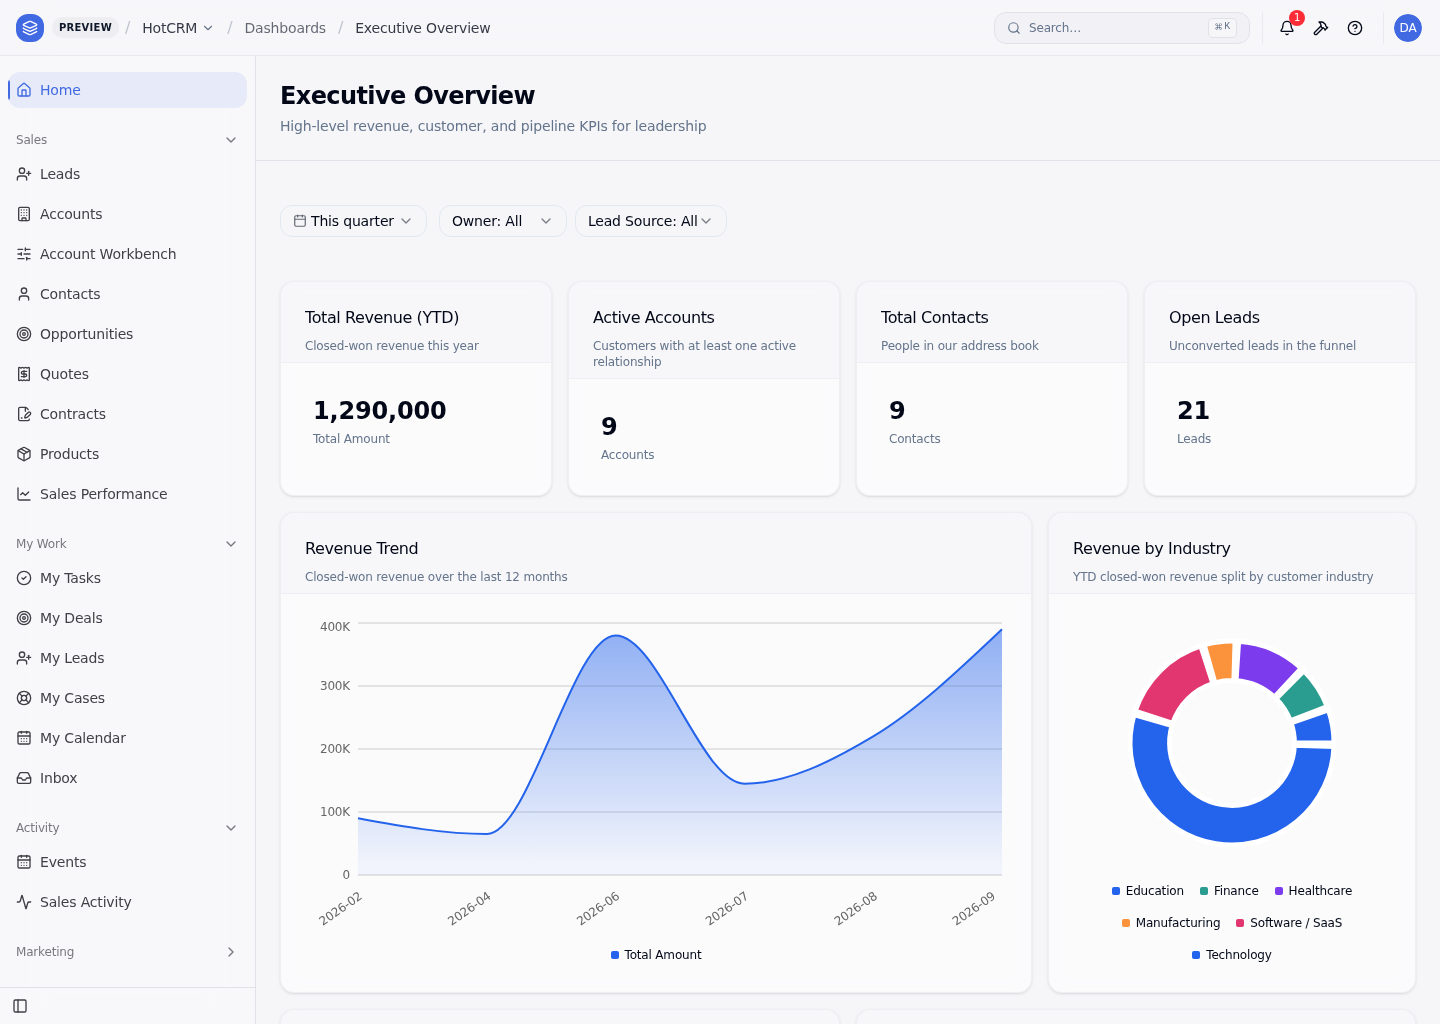
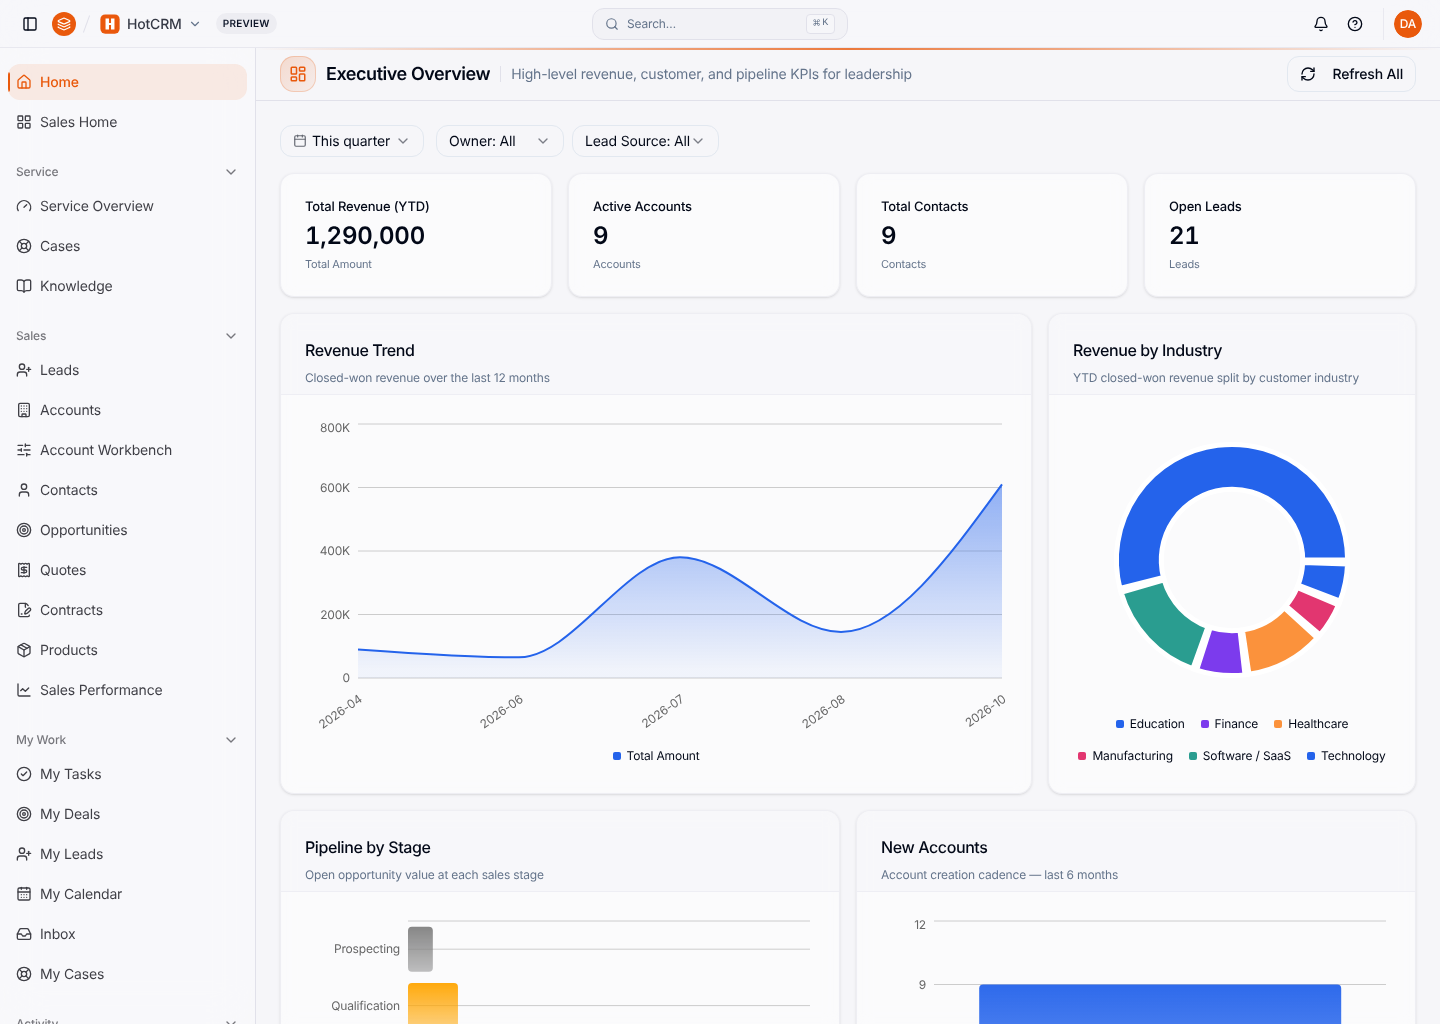
docs(readme): position HotCRM as the reference implementation of "the ontology is the software", and refresh its screenshots on 18.0.0
The README opens on the platform's positioning, quoted, and says what HotCRM
is under it, with every figure re-measured on the 18.0.0 tree: counts off the
registered stack, the token figures off the ratchet's headline line, and a new
section showing an MCP create_record that the dev admin's key completes and a
read-only identity's key is refused.

The nine documentation screenshots are re-captured in en and zh-Hans from a
fresh database with the shipped seed and demo staff, light theme; each
meta.yaml records the capture date and platform version, and the two comment
blocks whose measurements moved on 18.0.0 are restated. The five numbered
screenshots nothing read are removed.

Claude-Session: https://claude.ai/code/session_01KqkTQNLcxVc588eZpJmp1r

diff --git a/test/docs-readme-token-figures.test.ts b/test/docs-readme-token-figures.test.ts
@@ -10,12 +10,15 @@ import { REPO_ROOT } from './helpers/repo-root';
 /**
  * The README headline figures are the gate's, within the ruled buffer (#1187).
  *
- * The README banner states HotCRM's positioning claim as two measured numbers:
- * business semantics ~50k tokens, interaction layer ~29k — of the SALES
- * package, which is the surface #1905 put the gate on
- * (「token 门禁： 放到 sales」) and the unit ADR-0130 §1.3(b) makes the claim
- * about: *a CRM sales module fits whole in an AI context window*. That claim is the
- * first thing a reader sees and the reason a developer keeps reading, and for
+ * The README banner states HotCRM's size claim as two measured numbers, the
+ * business semantics and the interaction layer — of the SALES package, which is
+ * the surface #1905 put the gate on (「token 门禁： 放到 sales」) and the unit
+ * ADR-0130 §1.3(b) makes the claim about: *a CRM sales module fits whole in an AI
+ * context window*. Since #2205 the README opens on the platform's positioning
+ * ("the ontology is the software", quoted) and the size claim sits under it in a
+ * `> [!NOTE]` callout: a blockquote on purpose, because `bannerText` below reads
+ * every `>` line of the README and nothing else. It is still the claim a
+ * developer reads first and the reason one keeps reading, and for
  * months nothing checked it — the banner said "~170k tokens (~18,000 lines)", a
  * hand measurement of a tree that had since moved, and no test, gate or reviewer
  * could have noticed. #1183 built the measurement
@@ -61,8 +64,8 @@ import { REPO_ROOT } from './helpers/repo-root';
  * a size the app does not have — the ratchet owns the growth budget, alone, and
  * a raise there sits on the maintainer floor where it always did.
  *
- *   business semantics  banner ~57k -> band 54,150–59,850 · ceiling 88,500
- *   interaction layer   banner ~28k -> band 26,600–29,400 · ceiling 46,500
+ *   business semantics  banner ~58k -> band 55,100–60,900 · ceiling 88,500
+ *   interaction layer   banner ~29k -> band 27,550–30,450 · ceiling 46,500
  *
  * ⚠ The ceiling column is still worked out per row, and still pinned to
  * `CEILINGS` below — that is what stops the README quoting a ceiling the gate no

diff --git a/README.md b/README.md
@@ -4,72 +4,92 @@
 
 # HotCRM
 
-> **The reference app for AI-written enterprise software.** A complete CRM —
-> 18 objects, 33 flows, 5 dashboards, 6 AI skills, 4 languages — built as four
-> packages (sales, service, revenue, marketing) that compile to one artifact.
-> The **sales package**, the one a customer installs, carries its whole
-> business semantics (objects, flows, actions, hooks) in **~57k tokens**
-> of typed [ObjectStack](https://github.com/objectstack-ai/objectstack) metadata,
-> and its whole interaction layer (views, pages, dashboards, app shell) in
-> another **~28k**. An agent holds every business rule of a real enterprise CRM
-> module in a fraction of one context window — and the entire authored app
-> still fits comfortably — so it can reason about the system whole and refactor
-> it safely.
-> **Install it online in one click, or fork it and build & ask with Claude
-> Code** — it's the reference implementation every marketplace app forks from.
+> **The ontology is the software.** One executable business ontology. AI writes it, the runtime runs it, agents operate it, you own it.
 >
-> <sub>Measured, not estimated: `node scripts/check-source-token-ratchet.mjs`
-> prints both figures and CI fails when either grows past its committed ceiling.
-> Every package carries its own three ceilings — business semantics, interaction
-> layer and authored total — so a module cannot spend headroom another one is not
-> using. Comments and blank lines are stripped; translations
-> and seed data are outside the count — a fifth locale is not business
-> logic.</sub>
+> 本体即软件。
+>
+> Ontology-driven: database, API, UI and agent tools all derive from that one definition of the business, so there is no second application to keep in step with it.
+
+<sub>The positioning of [ObjectStack](https://github.com/objectstack-ai/objectstack), quoted from its README. The long form is the post [The Ontology Is the Software](https://objectstack.ai/blog/the-ontology-is-the-software).</sub>
+
+**HotCRM is the reference implementation of that statement for a CRM.**
+
+- **Its business ontology is the app.** 18 business objects and the relations between them, **32 actions**, 33 flows, 7 permission sets, 12 positions and 11 sharing rules, and 6 AI skills — typed [ObjectStack](https://github.com/objectstack-ai/objectstack) metadata under `src/`, checked by `pnpm validate`.
+- **The database, the API, the console UI and the agent tools derive from it.** One `pnpm dev` boot creates the tables, serves the REST API at `/api/v1/data/crm_account` and its siblings, the Console at `/_console/`, and an MCP server at `/api/v1/mcp`. Nothing under `src/` defines a route handler or a React component.
+- **Views, dashboards and translations are projections of it.** List views, record pages, 5 dashboards and the app's navigation, in 4 languages (en, zh-CN, es-ES, ja-JP): the surfaces people use the ontology through, not a second copy of it.
+
+> [!NOTE]
+> **Small enough for an agent to hold whole.** The sales package carries its whole business semantics (objects, flows, actions, hooks) in **~58k tokens**, and its whole interaction layer (views, pages, dashboards, app shell) in another **~29k**.
+> Measured, not estimated: `node scripts/check-source-token-ratchet.mjs` prints both figures, and every other package's, and CI fails when a package's business semantics, interaction layer or authored total grows past its committed ceiling. Comments and blank lines are stripped; translations and seed data are outside the count — a fifth locale is not business logic.
 
 [![License](https://img.shields.io/badge/license-Apache--2.0-blue.svg)](LICENSE)
 [![Manifest](https://img.shields.io/badge/manifest-app.objectstack.hotcrm-blueviolet)](src/sales/index.ts)
 [![Version](https://img.shields.io/badge/version-5.1.2-brightgreen)](CHANGELOG.md)
 [![Marketplace](https://img.shields.io/badge/marketplace-cloud.objectos.app-orange)](https://cloud.objectos.app)
 
-HotCRM is a complete, opinionated CRM built as the **first official application** on the [ObjectStack](https://cloud.objectos.app) marketplace. Install it into any ObjectStack environment in one click and get a working CRM in 30 seconds — or fork it as the canonical example of how to build your own marketplace app.
+Install it into an ObjectStack environment from the [marketplace](https://cloud.objectos.app), or fork it and build & ask with Claude Code or any coding agent: the agent writes the metadata in your repo, and operates the running app over MCP.
 
 ---
 
-## 📸 Screenshots
+## 📸 Projections of one ontology
 
-| Qualified lead workspace | Sales pipeline |
+Captured on ObjectStack 18.0.0 from a fresh database with the shipped seed data and demo staff (`pnpm demo:staff`), in the Console's default light theme.
+
+| Strategic account 360 | Qualified lead workspace |
 |---|---|
-| ![Qualified lead workspace](assets/screenshots/hotcrm/lead-detail/en.png) | ![Sales pipeline](assets/screenshots/hotcrm/sales-pipeline/en.png) |
+| ![Strategic account 360](assets/screenshots/hotcrm/customer-360/en.png) | ![Qualified lead workspace](assets/screenshots/hotcrm/lead-detail/en.png) |
 
-| Strategic account 360 | Quote lifecycle |
+| Sales pipeline kanban | Quote lifecycle pipeline |
 |---|---|
-| ![Strategic account 360](assets/screenshots/hotcrm/customer-360/en.png) | ![Quote lifecycle](assets/screenshots/hotcrm/quote-pipeline/en.png) |
+| ![Sales pipeline kanban](assets/screenshots/hotcrm/sales-pipeline/en.png) | ![Quote lifecycle pipeline](assets/screenshots/hotcrm/quote-pipeline/en.png) |
 
-| Campaign lifecycle and ROI | Sales performance dashboard |
+| Campaign lifecycle and ROI | Large-deal approval flow |
 |---|---|
-| ![Campaign lifecycle and ROI](assets/screenshots/hotcrm/campaign-detail/en.png) | ![Sales performance dashboard](assets/screenshots/hotcrm/sales-dashboard/en.jpg) |
+| ![Campaign lifecycle and ROI](assets/screenshots/hotcrm/campaign-detail/en.png) | ![Large-deal approval flow](assets/screenshots/hotcrm/large-deal-approval/en.png) |
 
-> The current, locale-specific screenshots live in `assets/screenshots/hotcrm/<screen>/<locale>.png`, with a colocated `meta.yaml` for purpose, alt text, capture context, and lifecycle. This README uses English; the documentation site also publishes `zh-Hans` variants. Bundled runtime translations: en, zh-CN, es-ES, ja-JP.
+The same dashboard, two projections: the English UI and the zh-CN language pack over the same records.
+
+| Sales performance dashboard (en) | 销售业绩仪表盘 (zh-Hans) |
+|---|---|
+| ![Sales performance dashboard](assets/screenshots/hotcrm/sales-dashboard/en.jpg) | ![销售业绩仪表盘](assets/screenshots/hotcrm/sales-dashboard/zh-Hans.jpg) |
+
+> The screenshots live in `assets/screenshots/hotcrm/<screen>/<locale>.png`, each with a colocated `meta.yaml` recording its purpose, alt text, capture context and platform version. This README uses English; the documentation site also publishes the `zh-Hans` variants.
+
+---
+
+## 🤖 Agents operate it
+
+The runtime serves HotCRM as an MCP server at `/api/v1/mcp`, on by default. `list_objects` returns every `crm_*` object, the runtime's record tools (`query_records`, `create_record`, …) act on them, and two of HotCRM's actions opt in with `ai: { exposed: true }`: **Convert Lead** and **Schedule Follow-up**. An agent calls them under the permission sets and sharing rules of the identity it connects as — the same ones a REST call from that identity runs under.
+
+Measured on a local community-edition boot (`pnpm dev`, then `pnpm demo:staff`). Sign in and mint an API key for an identity:
+
+```bash
+curl -c admin.txt -X POST http://localhost:4001/api/v1/auth/sign-in/email \
+  -H 'content-type: application/json' -d '{"email":"admin@objectos.ai","password":"admin123"}'
+curl -b admin.txt -X POST http://localhost:4001/api/v1/keys     # → { "data": { "key": "osk_…" } }, shown once
+```
+
+Then send an agent's `tools/call` with that key:
+
+```bash
+curl -X POST http://localhost:4001/api/v1/mcp \
+  -H 'content-type: application/json' -H 'accept: application/json, text/event-stream' \
+  -H 'x-api-key: osk_…' \
+  -d '{"jsonrpc":"2.0","id":1,"method":"tools/call","params":{"name":"create_record","arguments":{"objectName":"crm_campaign","data":{"name":"Agent-created Q1 Webinar","type":"webinar","status":"planning","start_date":"2027-01-12","end_date":"2027-01-14"}}}}'
+```
+
+| The key belongs to | What comes back |
+|---|---|
+| the dev admin, `admin@objectos.ai` | `isError: false` — the new campaign, `created_by` the dev admin |
+| the demo sales rep Nina Reyes, `na.rep@objectos.ai` — her `sales_rep` permission set reads every campaign and grants no create | `isError: true` — `PERMISSION_DENIED`, `status: 403`, and the campaign count does not move |
+
+HotCRM defines no agent of its own; its 6 AI skills are metadata for a platform agent to carry, and this community-edition boot runs none (`GET /api/v1/ai/agents` answers an empty list), so the agent is the one you connect. `pnpm dev` prints the `claude mcp add …` line for an MCP client; [Connect an MCP Client](https://objectstack.ai/docs/ai/connect-mcp) covers the browser sign-in and API keys.
 
 ---
 
 ## ✨ What you get
 
-**18 business objects** spanning the full Lead-to-Cash cycle:
-
-| Sales | Service | Marketing | Revenue |
-|---|---|---|---|
-| `crm_lead` | `crm_case` | `crm_campaign` | `crm_contract` |
-| `crm_account` | `crm_knowledge_article` | `crm_campaign_member` | `crm_quote` |
-| `crm_contact` | `crm_task` | | `crm_quote_line_item` |
-| `crm_opportunity` | | | |
-| `crm_opportunity_line_item` | | | |
-| `crm_product` | | | |
-| `crm_forecast` | | | |
-| `crm_event` | | | |
-| `crm_event_attendee` | | | |
-
-Plus **6 AI skills** (a skills-only surface — HotCRM defines no agents of its own; the skills attach to the platform `ask` assistant), **5 dashboards**, **33 flows**, **32 actions**, **9 datasets**, **4 language bundles** (en, zh-CN, es-ES, ja-JP), **6 permission profiles**, **12 positions**, and **9 sharing rules**.
+**18 business objects** across four business domains — sales, service, revenue and marketing; the repository layout below says what each package covers, and the roster itself is `src/*/objects/*.object.ts`. Around them: **32 actions**, 33 flows, **5 dashboards**, 10 reports, 9 datasets, 6 AI skills, 4 language bundles (en, zh-CN, es-ES, ja-JP), 7 permission sets, 12 positions and 11 sharing rules. `pnpm build` prints most of these counts on every build.
 
 > **Business reader?** The ObjectStack docs tour every one of these capabilities in plain business language — [What Can It Do?](https://objectstack.ai/docs/capabilities) — with HotCRM as the running example on every page.
 
@@ -92,6 +112,7 @@ git clone https://github.com/objectstack-ai/hotcrm.git
 cd hotcrm
 pnpm install
 pnpm dev                    # ObjectStack runtime starts at http://localhost:4001
+pnpm demo:staff             # optional, in a second terminal: the demo sales and service team
 ```
 
 ```bash
@@ -146,7 +167,7 @@ hotcrm/
 └── content/docs/                 # Documentation content
 ```
 
-Every file follows the **`<entity>.<kind>.ts`** convention (actions are the one plural: `<entity>.actions.ts`, one file bundling that entity's actions). The `crm_` prefix on object names is explicit in source — no runtime magic. Both rules are required for marketplace acceptance.
+Metadata files are named **`<name>.<kind>.ts`** — `lead.object.ts` with its hooks beside it in `lead.hook.ts`, `lead.view.ts`, `lead_detail.page.ts`, `opportunity-approval.flow.ts`; actions are the one plural, `lead.actions.ts` — and a few shared files are not (`_hook-api.ts`, `positions.ts`). The `crm_` prefix on object names is explicit in source — no runtime magic.
 
 ---
 
@@ -161,15 +182,15 @@ Every file follows the **`<entity>.<kind>.ts`** convention (actions are the one 
 
 ## 🤝 Why fork HotCRM?
 
-Because it's the reference for every ObjectStack convention you'll encounter:
+Because it is the reference implementation: every ObjectStack convention you will meet, applied to a real CRM.
 
-- ✅ `crm_` namespace prefix on every object (explicit, grep-able, marketplace-safe)
+- ✅ `crm_` namespace prefix on every object (explicit, grep-able)
 - ✅ Strict `*.object.ts` / `*.hook.ts` / `*.actions.ts` separation of concerns
 - ✅ All metadata validated against `@objectstack/spec` schemas
 - ✅ ObjectQL only — no raw SQL anywhere
-- ✅ AI-Native — every entity has an `*.actions.ts` that's also an AI tool
+- ✅ Agent-operable — every object over MCP, actions exposed to agents only where declared
 - ✅ Four-language i18n out of the box
-- ✅ Production-shaped sharing rules, profiles, and positions
+- ✅ Permission sets, positions and sharing rules that `pnpm demo:staff` staffs with a demo team and then verifies, identity by identity
 
 If you want to ship an HR app, a project tracker, a help-desk — start by reading HotCRM's structure, then change names.
 

diff --git a/.changeset/2205-readme-ontology-screenshots.md b/.changeset/2205-readme-ontology-screenshots.md
@@ -1,0 +1,9 @@
+---
+"hotcrm": patch
+---
+
+**The README now presents HotCRM as the reference implementation of "the ontology is the software" for a CRM, and its screenshots show the 18.0.0 Console.** The README opens on ObjectStack's positioning, quoted as the platform states it ("The ontology is the software", 本体即软件), then says what HotCRM is under it: the business ontology (objects, relations, actions, permissions, flows) is the app; the database, the API, the Console and the agent tools derive from it; views, dashboards and translations are projections of it. The README is also the package readme the marketplace listing shows, so the listing picks this up at the next release.
+
+Every figure in it was re-measured on this release: the counts as the app registers them (7 permission sets and 11 sharing rules, where the old page said 6 and 9), and the token figures as `node scripts/check-source-token-ratchet.mjs` prints them (~58k business semantics, ~29k interaction layer for the sales package). A new **Agents operate it** section shows what was run on a local community-edition boot: an agent's MCP `create_record` call creates a campaign with the dev admin's API key, and the same call with the demo sales rep's key is refused with `PERMISSION_DENIED`. Two claims the old page made are gone because they were not true: that every object has an actions file that is also an AI tool (two actions are exposed to agents, Convert Lead and Schedule Follow-up), and that every file is named after its entity and kind.
+
+The nine documentation screenshots are re-captured in English and Simplified Chinese from a fresh database with the shipped seed data and demo staff, in the light theme, each `meta.yaml` recording the capture date and platform version. The English sales pipeline no longer shows Chinese dates. The five older numbered screenshots under `assets/screenshots/`, which nothing referenced, are removed.

diff --git a/assets/screenshots/README.md b/assets/screenshots/README.md
@@ -41,7 +41,3 @@ Use public paths such as `/screenshots/hotcrm/lead-detail/en.png` from MDX.
    change. Keep the real file extension (`.jpg` for JPEG, `.png` for PNG).
 3. Run the sync command and verify both documentation locales in a browser.
 4. Update the README or docs page that tells the corresponding product story.
-
-The numbered files at this directory's root are retained as historical capture
-sets. New product documentation should use the semantic `hotcrm/<screen>/`
-directories above.
